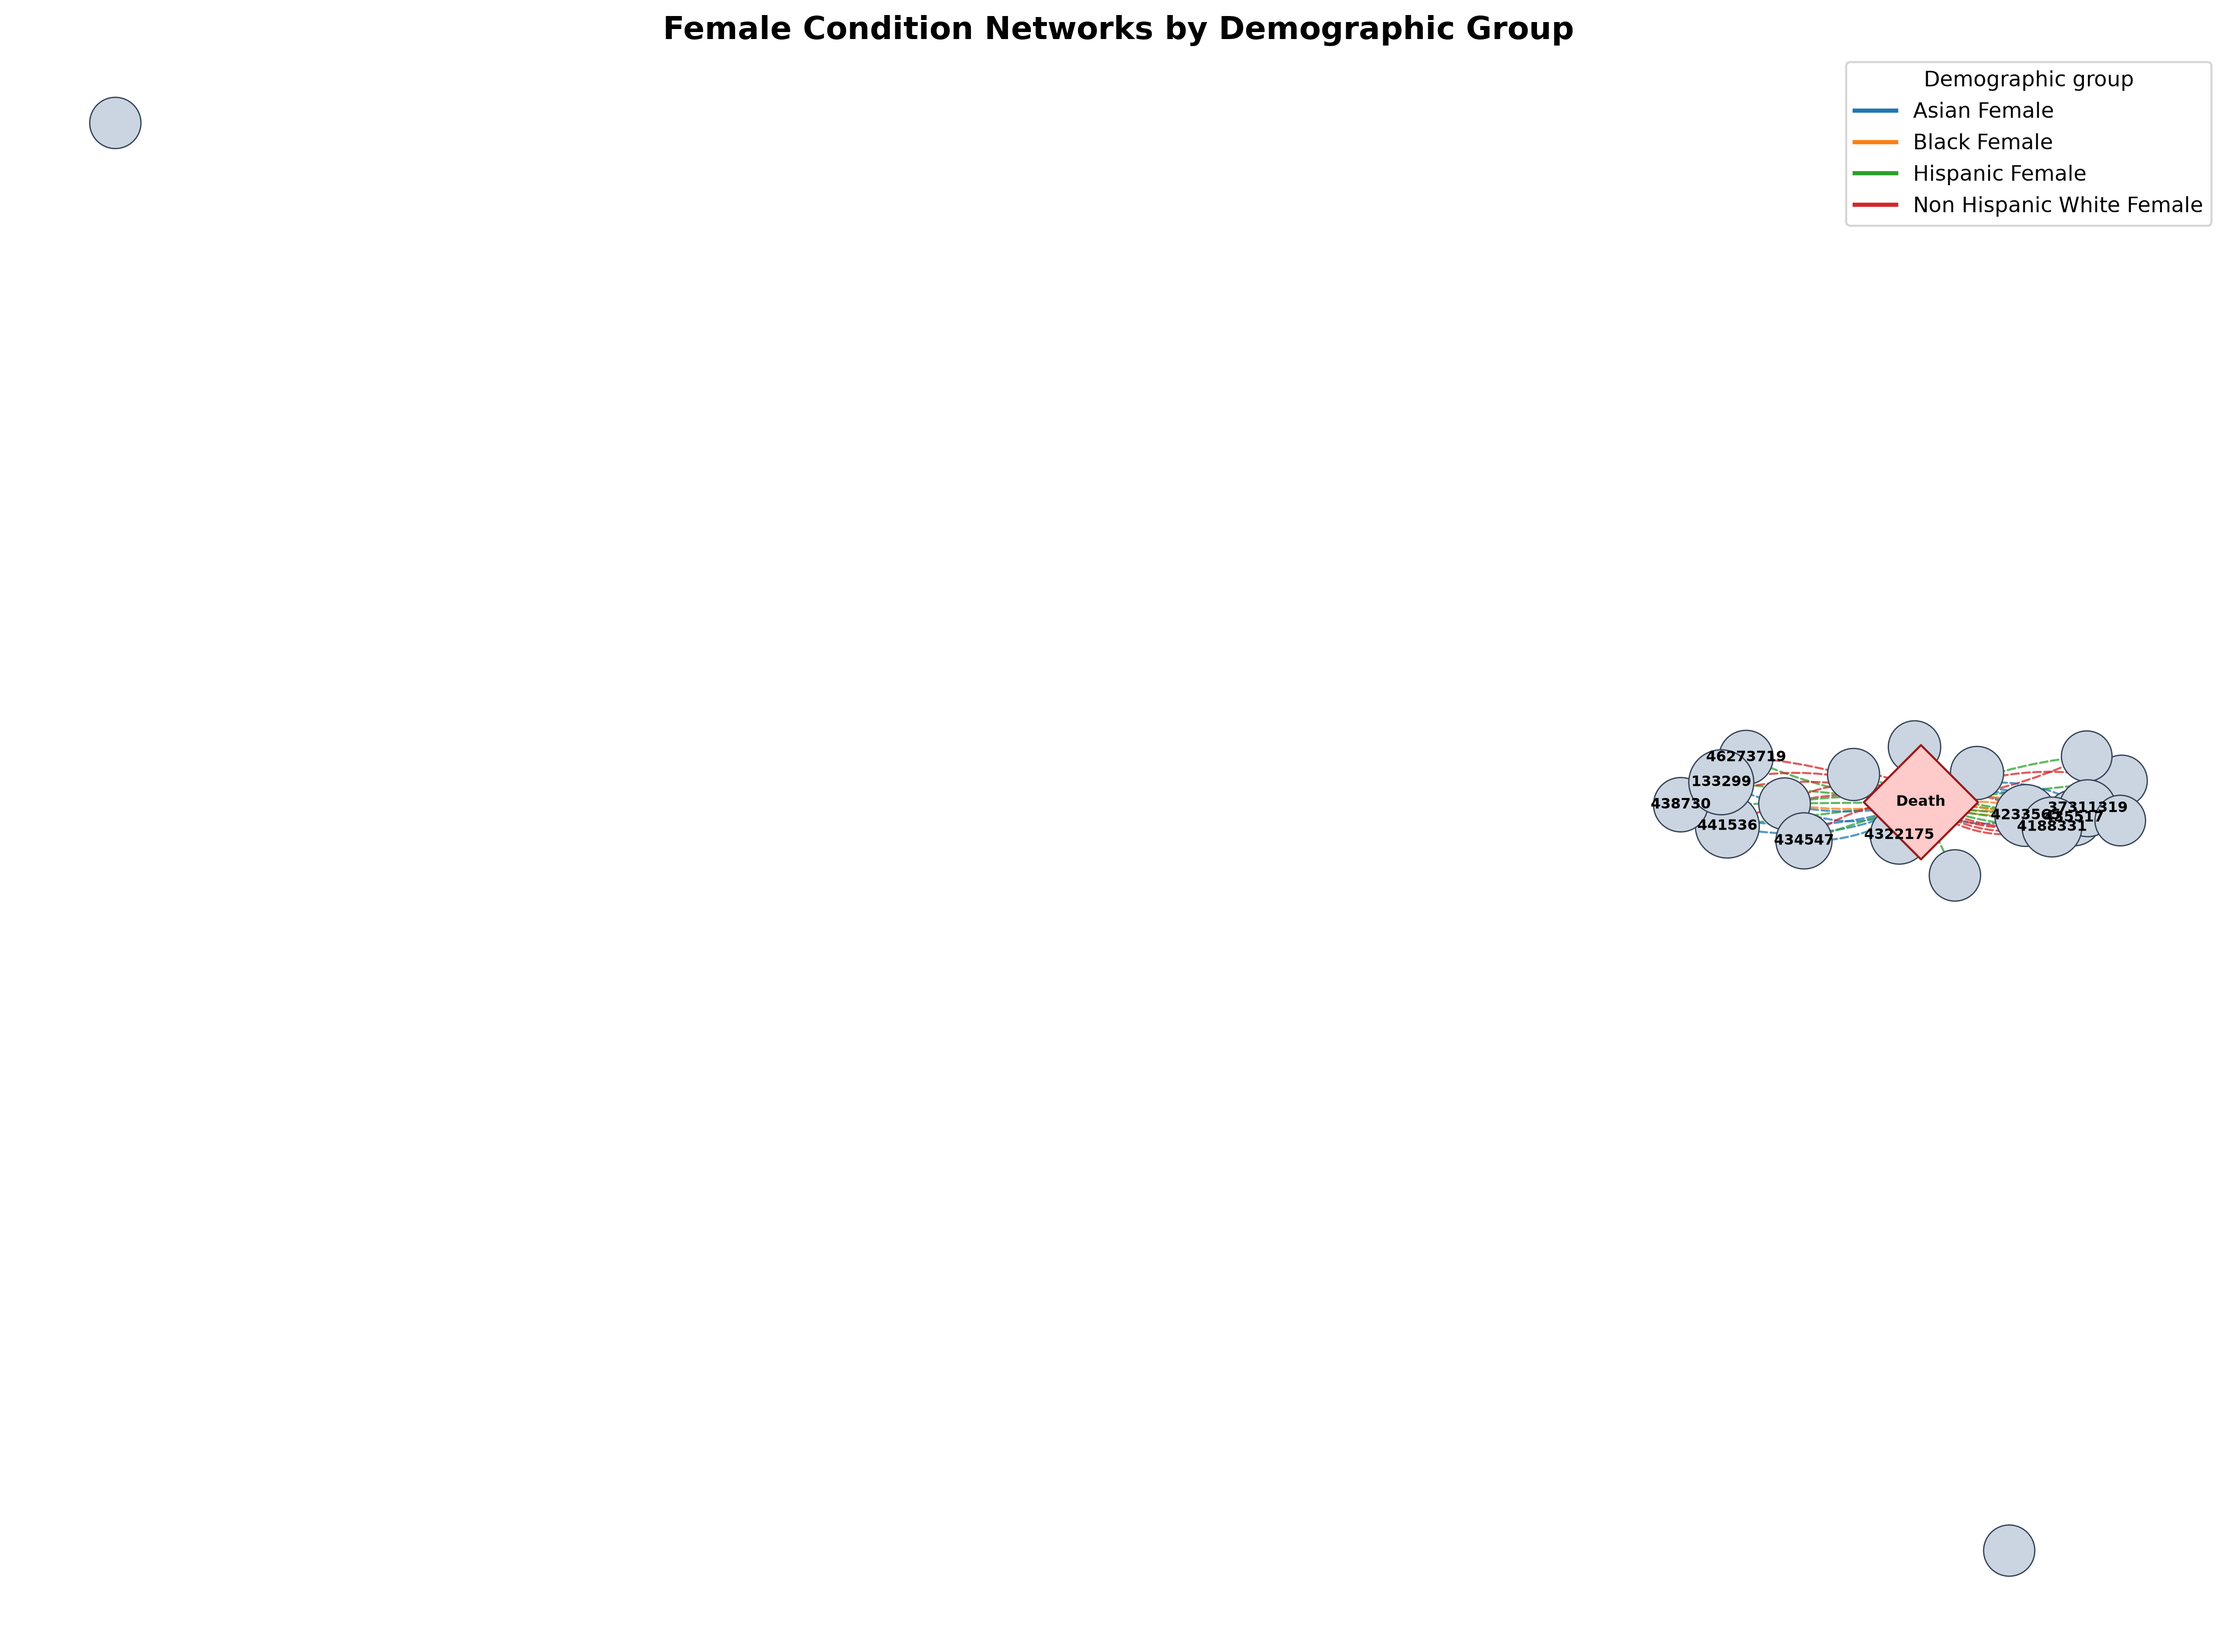
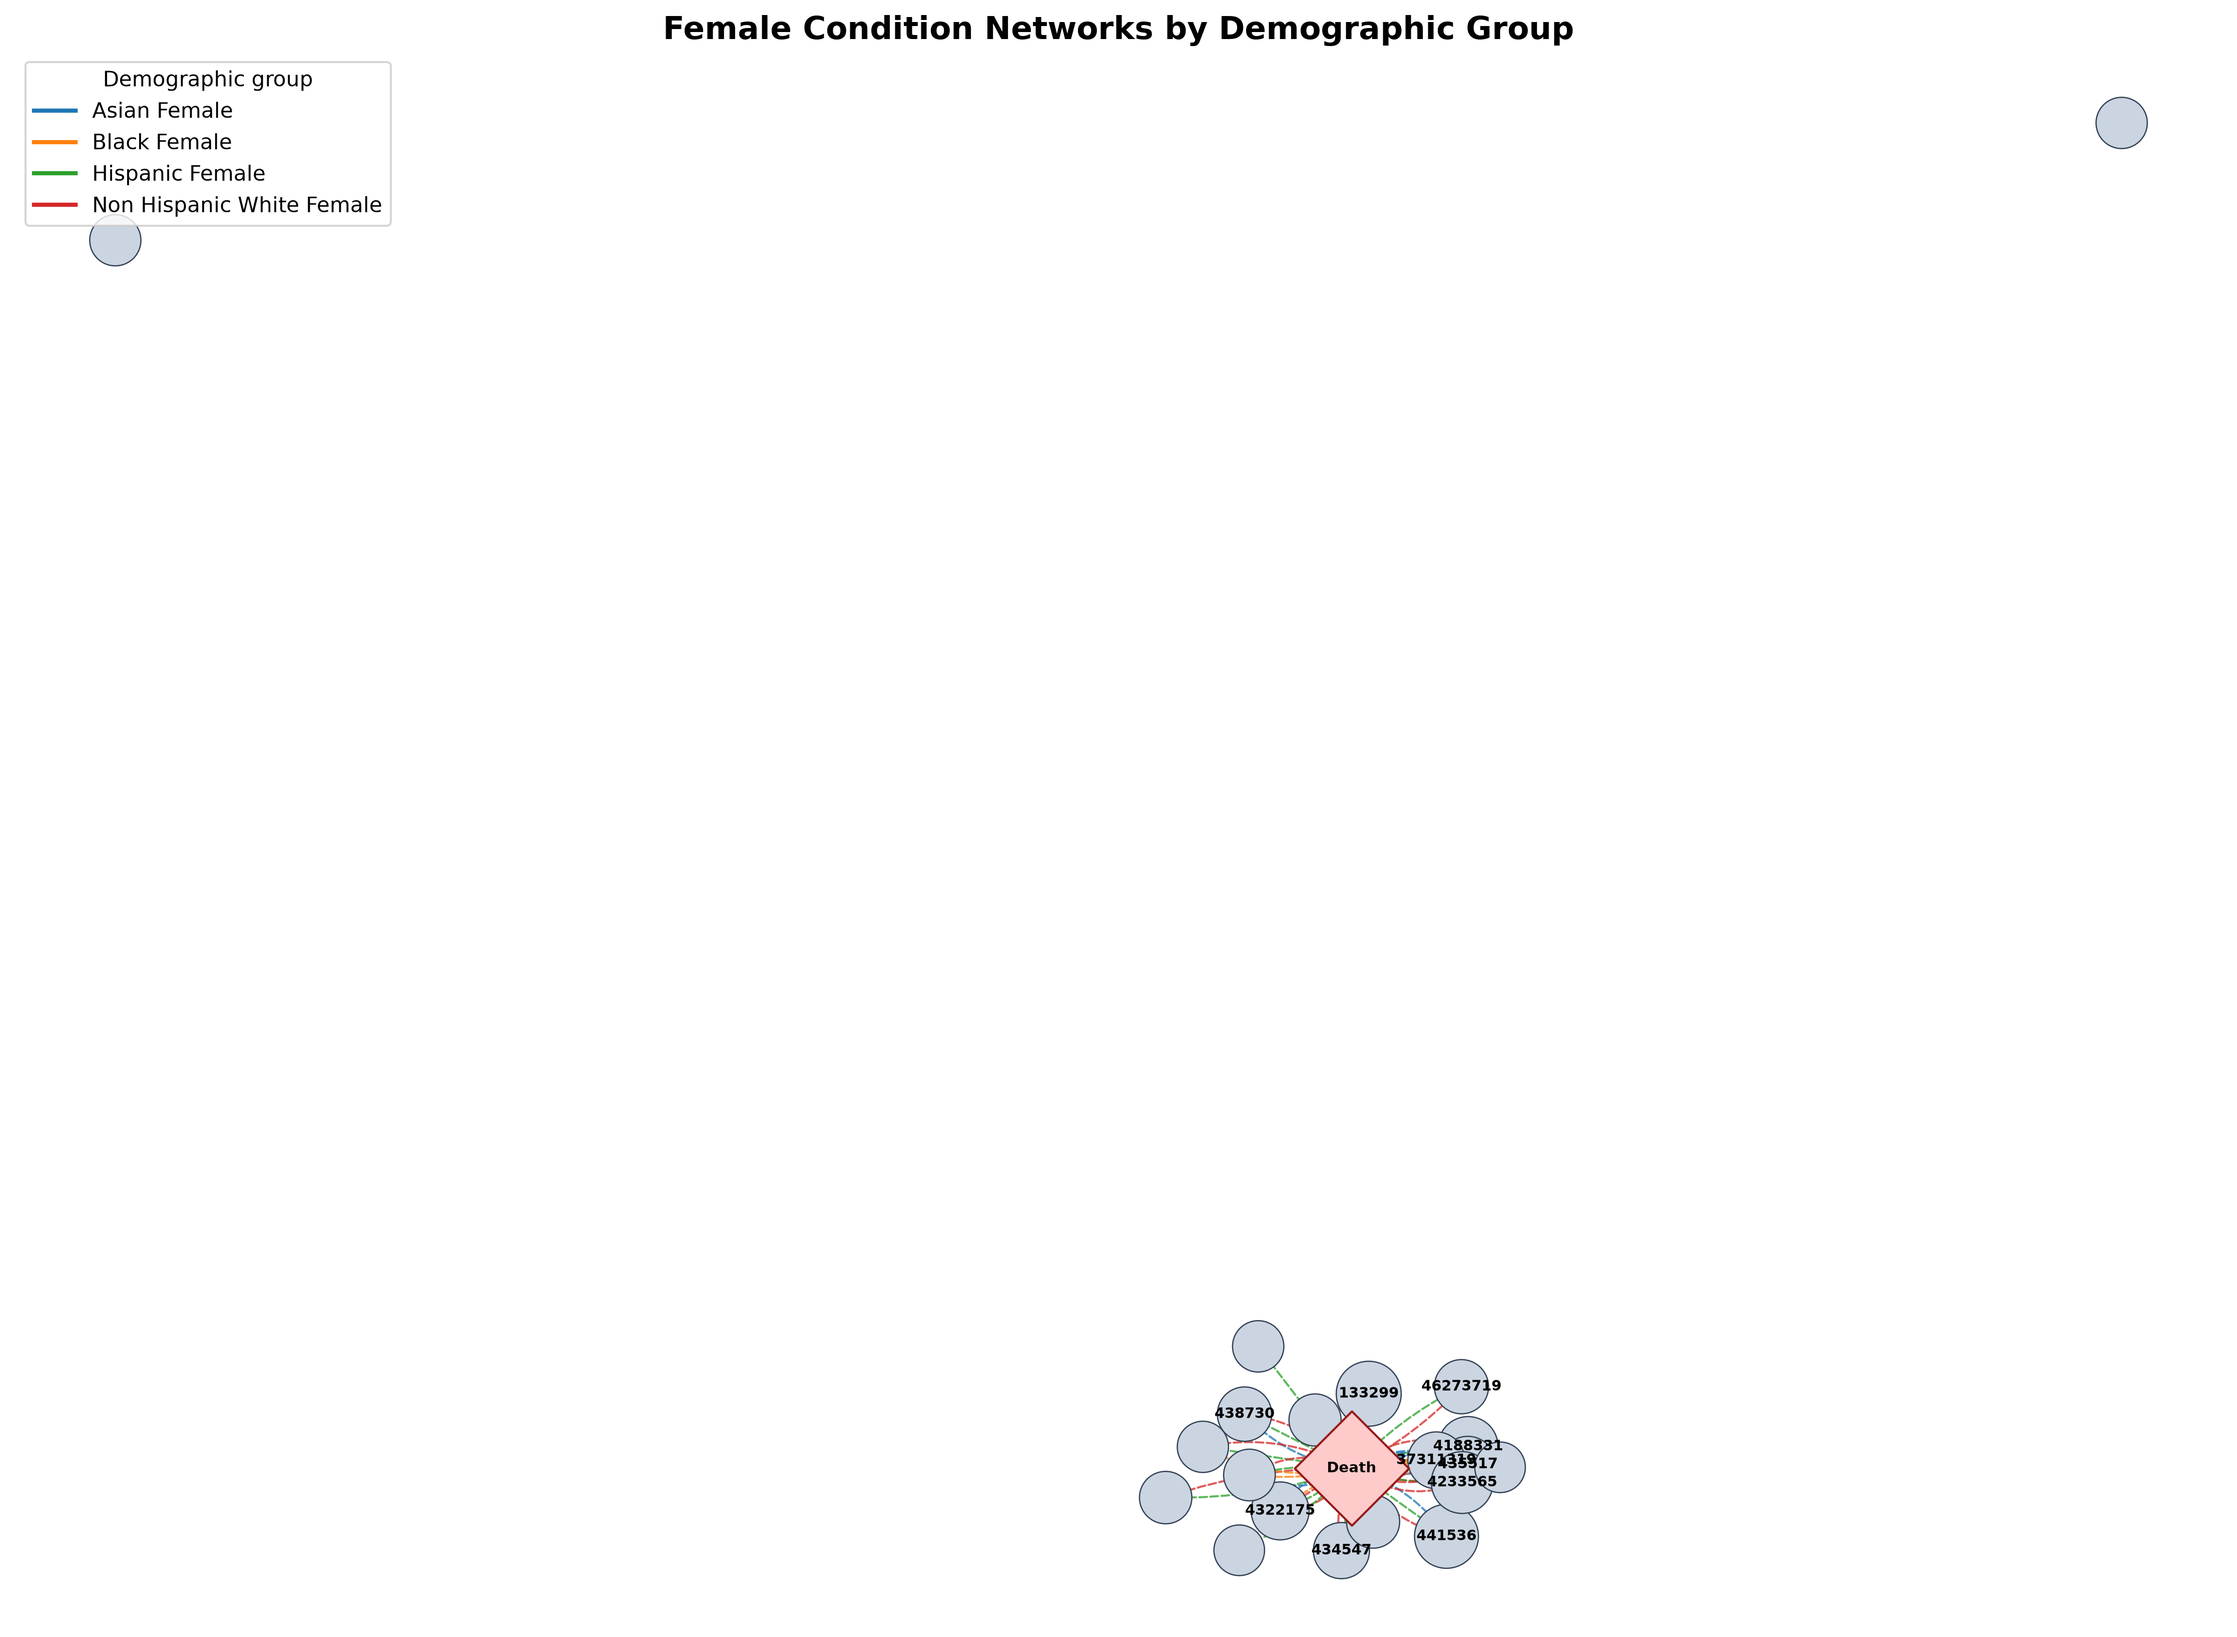
feat: export node concept mappings
Add OMOP metadata and mapping status for graph nodes in
`outputs/node_mapping.csv`.

diff --git a/ehrshot_network_analysis.py b/ehrshot_network_analysis.py
@@ -67,6 +67,56 @@ comparison_graph = build_comparison_graph(
 # Shared node list: one row per node across all cohorts.
 all_node_ids = sorted({str(node) for graph in graphs.values() for node in graph.nodes})
 
+# Map graph node IDs to human-readable OMOP concept metadata.
+node_mapping_df = pd.DataFrame({"node_id": all_node_ids})
+node_mapping_df["node_type"] = node_mapping_df["node_id"].map(
+    lambda node_id: "death" if node_id == "NODE_DEATH" else "condition"
+)
+
+concept_columns = [
+    "concept_name",
+    "domain_id",
+    "vocabulary_id",
+    "concept_class_id",
+    "standard_concept",
+    "concept_code",
+]
+for column in concept_columns:
+    node_mapping_df[column] = pd.NA
+
+concept_path = DATA_DIR / "concept.csv"
+
+if concept_path.exists():
+    concept_metadata = pd.read_csv(
+        concept_path,
+        usecols=["concept_id", *concept_columns],
+        dtype={"concept_id": "string"},
+    ).rename(columns={"concept_id": "node_id"})
+
+    concept_metadata["node_id"] = concept_metadata["node_id"].astype(str)
+    concept_metadata = concept_metadata.drop_duplicates("node_id")
+
+    node_mapping_df = node_mapping_df.drop(columns=concept_columns).merge(
+        concept_metadata,
+        on="node_id",
+        how="left",
+    )
+    node_mapping_df["mapping_status"] = "not_found_in_concept.csv"
+    node_mapping_df.loc[node_mapping_df["concept_name"].notna(), "mapping_status"] = (
+        "mapped"
+    )
+else:
+    node_mapping_df["mapping_status"] = "concept_vocabulary_not_provided"
+
+death_mask = node_mapping_df["node_id"].eq("NODE_DEATH")
+node_mapping_df.loc[death_mask, "concept_name"] = "Death"
+node_mapping_df.loc[death_mask, "mapping_status"] = "special_node"
+
+node_mapping_df.to_csv(
+    OUTPUT_DIR / "node_mapping.csv",
+    index=False,
+)
+
 pd.DataFrame({"node_id": all_node_ids}).to_csv(
     OUTPUT_DIR / "nodes.csv",
     index=False,
